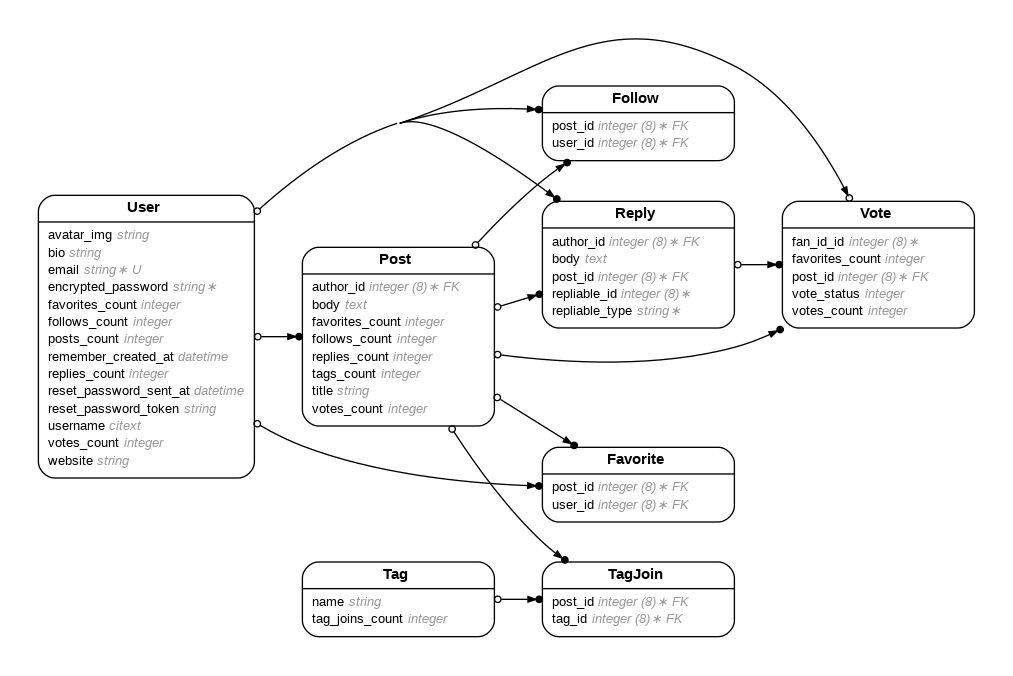
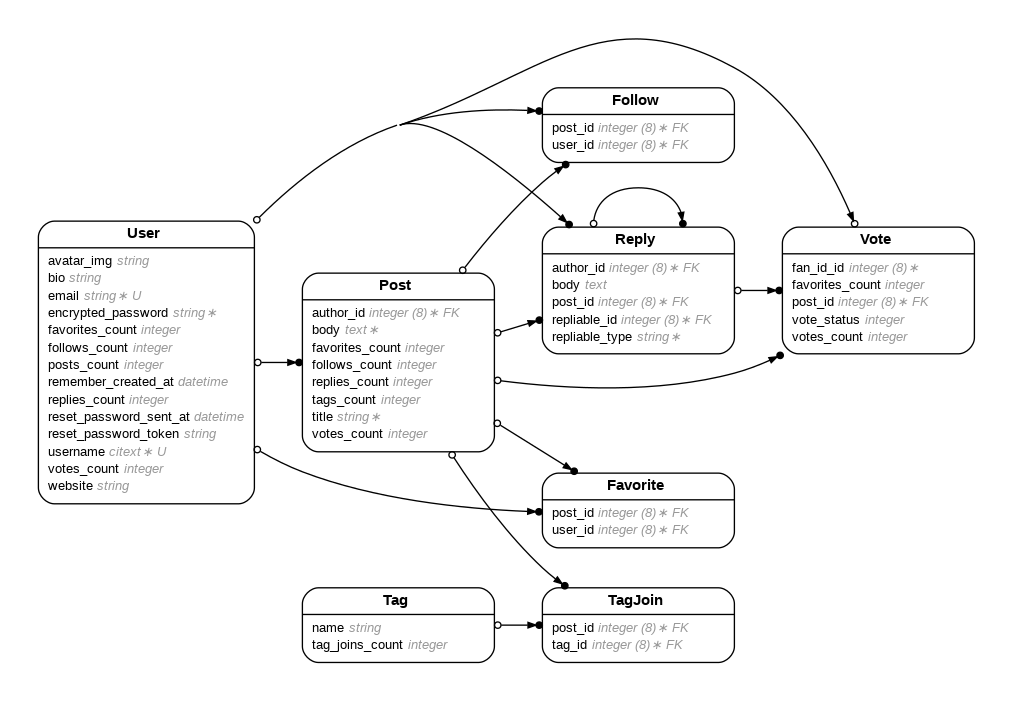
still working on sample data creation and model tweaks

diff --git a/db/schema.rb b/db/schema.rb
@@ -10,7 +10,7 @@
 #
 # It's strongly recommended that you check this file into your version control system.
 
-ActiveRecord::Schema.define(version: 2021_05_21_032713) do
+ActiveRecord::Schema.define(version: 2021_05_25_034005) do
 
   # These are extensions that must be enabled in order to support this database
   enable_extension "citext"
@@ -31,6 +31,7 @@ ActiveRecord::Schema.define(version: 2021_05_21_032713) do
     t.datetime "created_at", precision: 6, null: false
     t.datetime "updated_at", precision: 6, null: false
     t.index ["post_id"], name: "index_follows_on_post_id"
+    t.index ["user_id", "post_id"], name: "index_follows_on_user_id_and_post_id", unique: true
     t.index ["user_id"], name: "index_follows_on_user_id"
   end
 

diff --git a/app/models/follow.rb b/app/models/follow.rb
@@ -12,8 +12,9 @@
 #
 # Indexes
 #
-#  index_follows_on_post_id  (post_id)
-#  index_follows_on_user_id  (user_id)
+#  index_follows_on_post_id              (post_id)
+#  index_follows_on_user_id              (user_id)
+#  index_follows_on_user_id_and_post_id  (user_id,post_id) UNIQUE
 #
 # Foreign Keys
 #
@@ -23,4 +24,7 @@
 class Follow < ApplicationRecord
   belongs_to :user, counter_cache: true
   belongs_to :post, counter_cache: true
+
+  
+  validates :user, uniqueness: { scope: :post }
 end

diff --git a/test/models/follow_test.rb b/test/models/follow_test.rb
@@ -12,8 +12,9 @@
 #
 # Indexes
 #
-#  index_follows_on_post_id  (post_id)
-#  index_follows_on_user_id  (user_id)
+#  index_follows_on_post_id              (post_id)
+#  index_follows_on_user_id              (user_id)
+#  index_follows_on_user_id_and_post_id  (user_id,post_id) UNIQUE
 #
 # Foreign Keys
 #

diff --git a/db/migrate/20210525034005_add_index_to_follow.rb b/db/migrate/20210525034005_add_index_to_follow.rb
@@ -1,0 +1,5 @@
+class AddIndexToFollow < ActiveRecord::Migration[6.1]
+  def change
+    add_index :follows, [:user_id, :post_id], unique: true
+  end
+end
